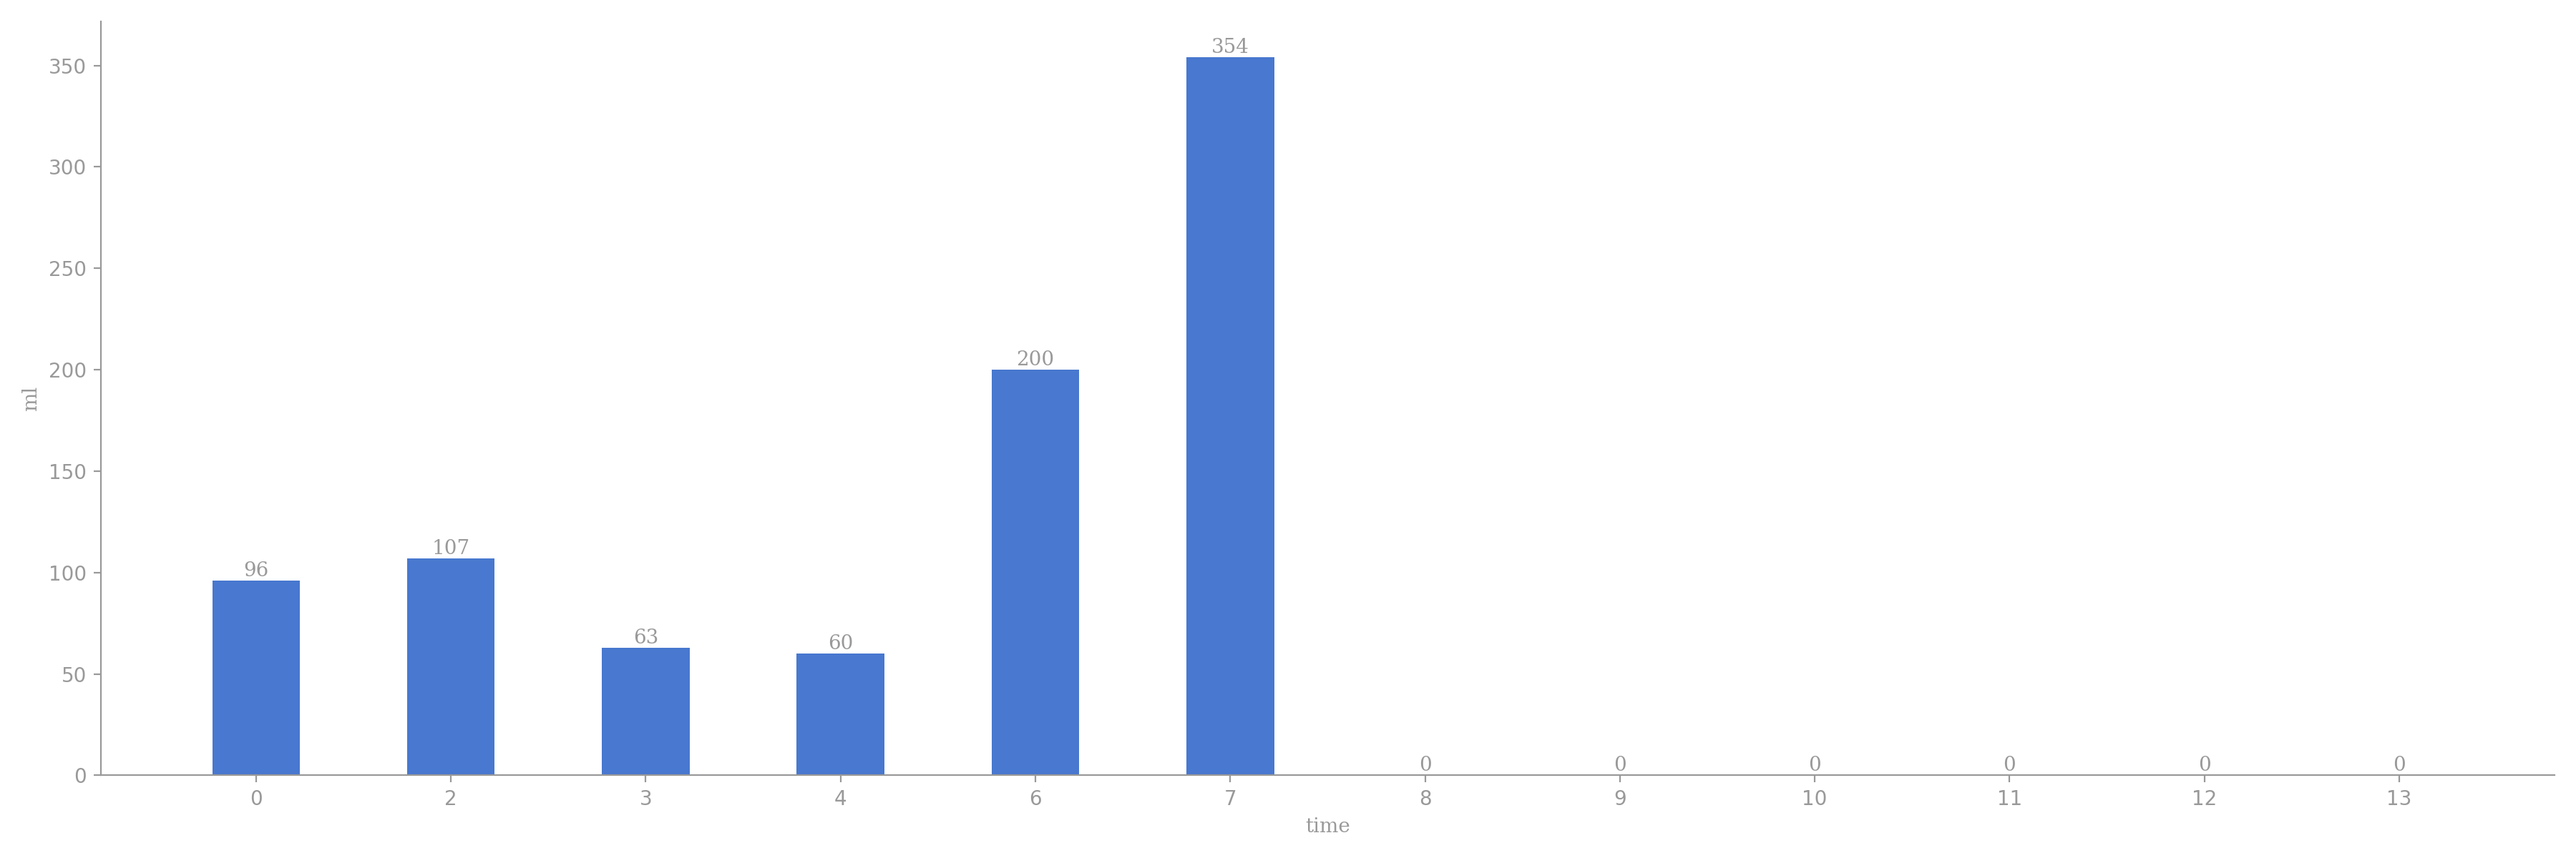
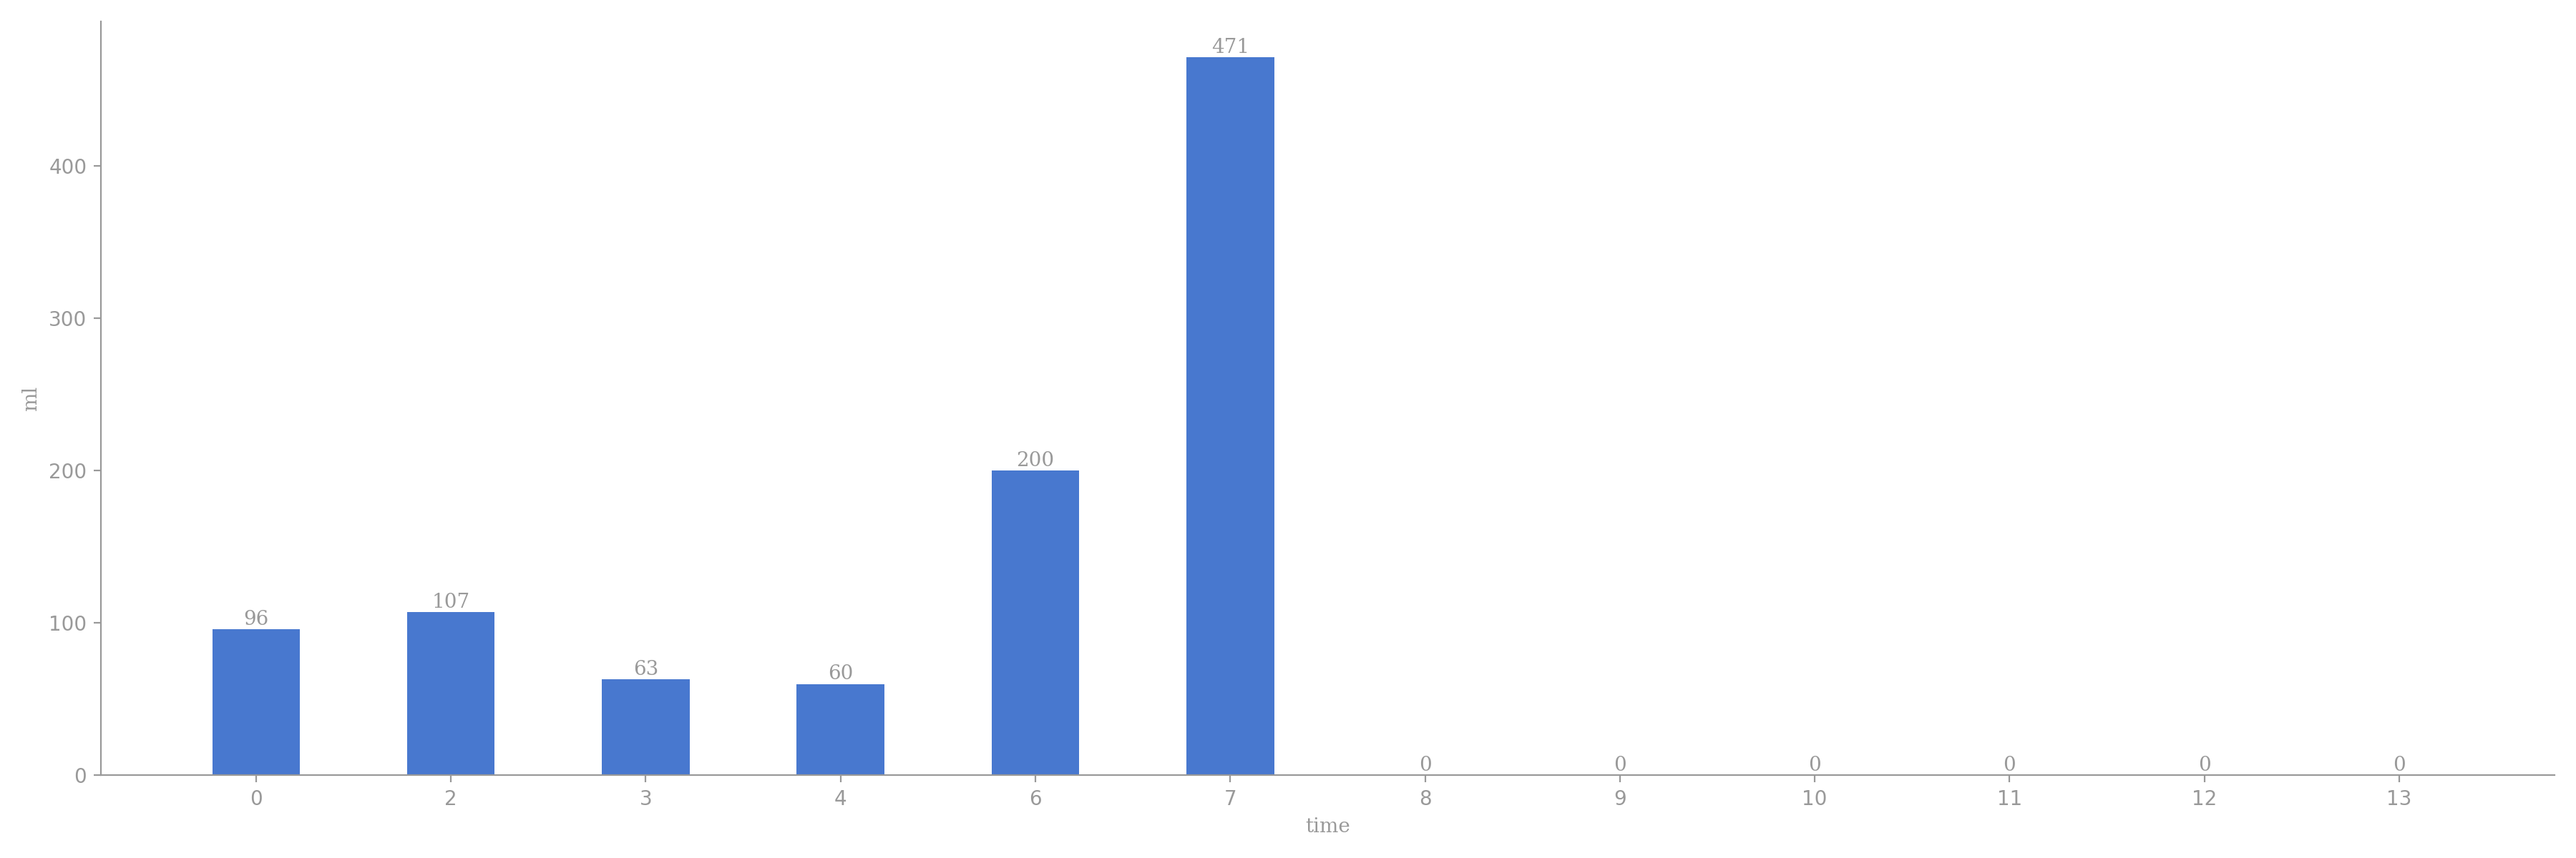
generated readme

diff --git a/README.md b/README.md
@@ -5,12 +5,12 @@
 
 | 今日总饮水量 | 每小时平均饮水量 |
 | :----: | :----: |
-| 880 | 146 |
+| 997 | 166 |
 </div>
 
-| 日期 | 00:26:43 | 02:12:04 | 03:42:02 | 04:33:20 | 06:17:01 | 07:03:23 |
-| :----: | :----: | :----: | :----: | :----: | :----: | :----: |
-| 2024-06-18 | 96 | 107 | 63 | 60 | 200 | 354 |
+| 日期 | 00:26:43 | 02:12:04 | 03:42:02 | 04:33:20 | 06:17:01 | 07:03:23 | 07:47:55 |
+| :----: | :----: | :----: | :----: | :----: | :----: | :----: | :----: |
+| 2024-06-18 | 96 | 107 | 63 | 60 | 200 | 354 | 117 |
 
 # 近30日饮水数据
 
